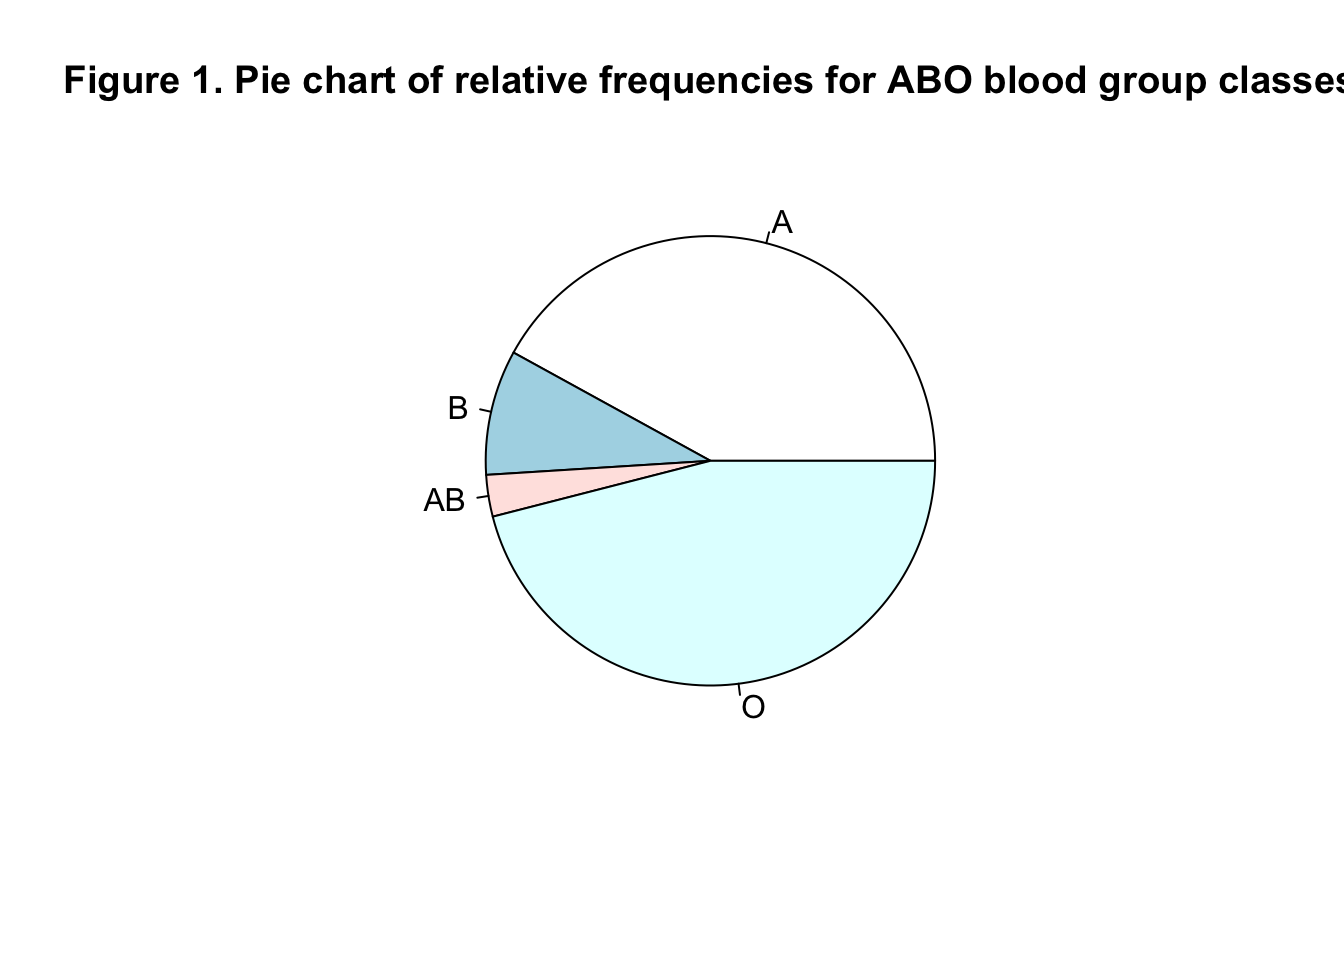
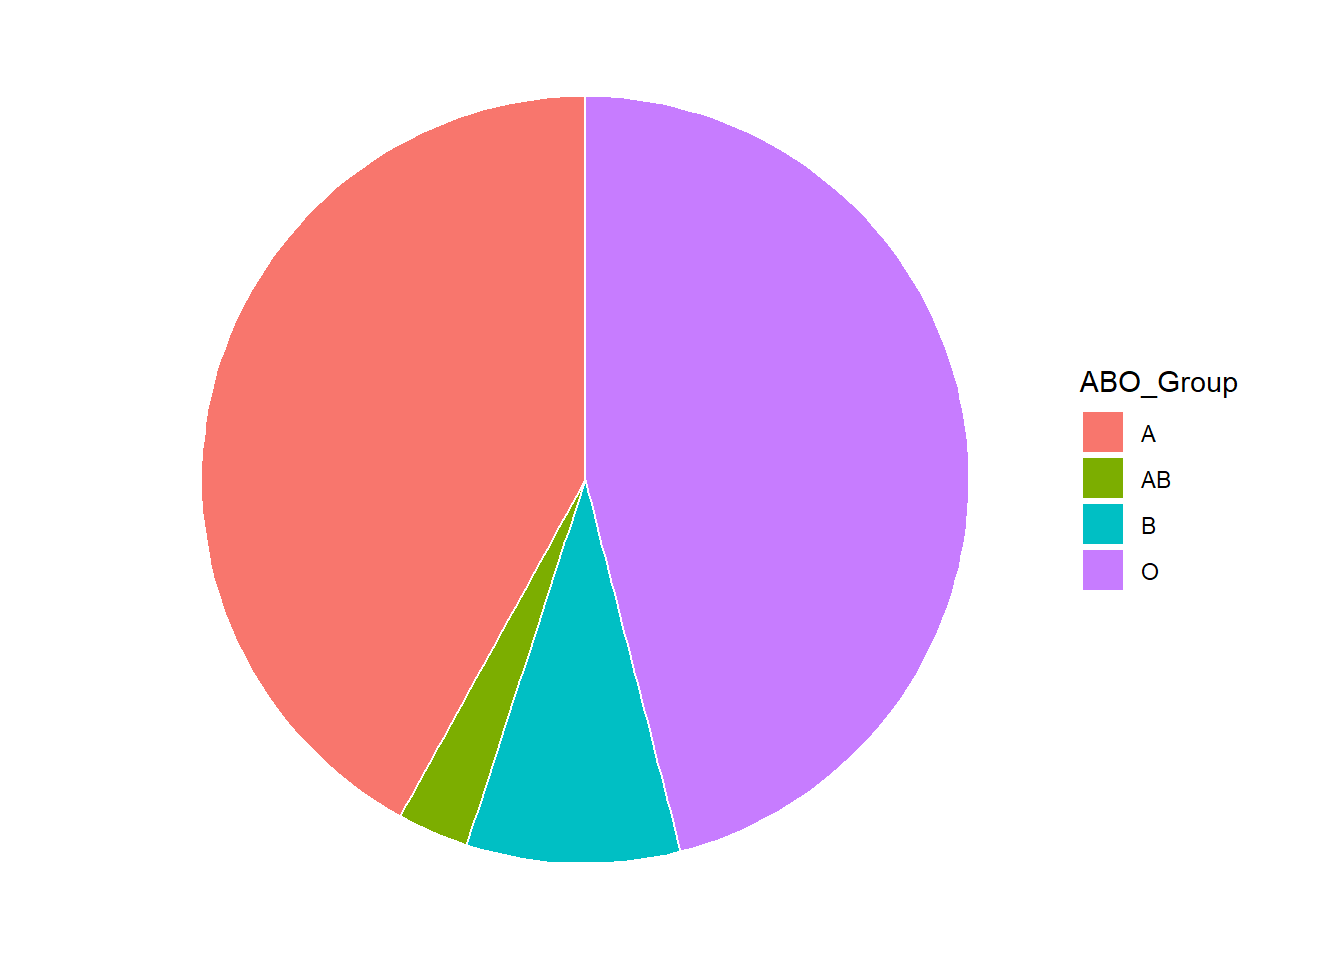
create plots

diff --git a/raw_markdown/docs/graphing-distributions-qualitative-variables.html b/raw_markdown/docs/graphing-distributions-qualitative-variables.html
@@ -102,16 +102,16 @@ For example, the relative frequency for group B is 45/500 = 0.09.</p>
 <h2>
 <span class="header-section-number">7.3</span> Pie Charts<a class="anchor" aria-label="anchor" href="#pie-charts"><i class="fas fa-link"></i></a>
 </h2>
-<p>The pie chart in Figure 1 depicts the ABO group data. In a pie chart,
+<p>The pie chart in Figure <a href="graphing-distributions-qualitative-variables.html#fig:pie-chart">7.1</a> depicts the ABO group data. In a pie chart,
 each category is represented by a slice of the pie. The area of the slice is
 proportional to the percentage of items in the category – that is, the
 relative frequency multiplied by 100.</p>
-<p><span class="math display">\[
-\begin{array}{c}
-\mbox{Joseph: Please add code to generate pie chart} \\[.1in]
-\mbox{Figure 1. Pie chart of relative frequencies for ABO blood groups}
-\end{array}
-\]</span></p>
+<div class="figure">
+<span style="display:block;" id="fig:pie-chart"></span>
+<img src="forensic-statistics-book_files/figure-html/pie-chart-1.png" alt="Relative Frequencies for ABO Blood Groups" width="672"><p class="caption">
+Figure 7.1: Relative Frequencies for ABO Blood Groups
+</p>
+</div>
 <p>Pie charts are effective for displaying the relative frequencies of a small
 number of categories. They are not recommended, however, when you have a large
 number of categories. Pie charts can also be confusing when they are used to
@@ -124,22 +124,22 @@ a pie chart is several of them.”</p>
 <span class="header-section-number">7.4</span> Bar Charts<a class="anchor" aria-label="anchor" href="#bar-charts"><i class="fas fa-link"></i></a>
 </h2>
 <p>Bar charts can also be used to represent frequencies of different categories.
-A bar chart of the ABO frequencies is shown in Figure 2. Frequencies are shown
+A bar chart of the ABO frequencies is shown in Figure <a href="graphing-distributions-qualitative-variables.html#fig:bar-chart">7.2</a>. Frequencies are shown
 on the Y-axis and the blood group is shown on the X-axis.</p>
-<p><span class="math display">\[
-\begin{array}{c}
-\mbox{Joseph: Please add code to generate bar chart} \\[.1in]
-\mbox{Figure 2. Bar chart of frequencies for ABO blood groups}
-\end{array}
-\]</span></p>
+<div class="figure">
+<span style="display:block;" id="fig:bar-chart"></span>
+<img src="forensic-statistics-book_files/figure-html/bar-chart-1.png" alt="Frequencies for ABO Blood Groups" width="672"><p class="caption">
+Figure 7.2: Frequencies for ABO Blood Groups
+</p>
+</div>
 <p>The Y-axis also can show the percentage of observations
-instead of the number of observations, as in Figure 3.</p>
-<p><span class="math display">\[
-\begin{array}{c}
-\mbox{Joseph: Please add code to generate bar charts} \\[.1in]
-\mbox{Figure 3. Bar chart of percentages for ABO blood groups}
-\end{array}
-\]</span></p>
+instead of the number of observations, as in Figure <a href="graphing-distributions-qualitative-variables.html#fig:bar-chart-percent">7.3</a>.</p>
+<div class="figure">
+<span style="display:block;" id="fig:bar-chart-percent"></span>
+<img src="forensic-statistics-book_files/figure-html/bar-chart-percent-1.png" alt="Percentages for ABO Blood Groups" width="672"><p class="caption">
+Figure 7.3: Percentages for ABO Blood Groups
+</p>
+</div>
 </div>
 <div id="comparing-distributions" class="section level2">
 <h2>
@@ -164,15 +164,14 @@ Albania and Australia.</p>
 \]</span>
 From Table 2 we see that ABO groups B and AB are more common in Albania,
 group O is more common in Australia, and group A is similar for both.
-This can be seen in the bar chart in Figure 4.</p>
-<p><span class="math display">\[
-\begin{array}{c}
-\mbox{Joseph: Please add code to generate side-by-side bar chart 
-(oriented horizontally)} \\[.1in]
-\mbox{Figure 4. Bar chart of percentages for ABO blood groups}
-\end{array}
-\]</span></p>
-<p>The bars in Figure 4 are oriented horizontally rather than vertically. The
+This can be seen in the bar chart in Figure <a href="graphing-distributions-qualitative-variables.html#fig:horiz-bar">7.4</a>.</p>
+<div class="figure">
+<span style="display:block;" id="fig:horiz-bar"></span>
+<img src="forensic-statistics-book_files/figure-html/horiz-bar-1.png" alt="Percentages for ABO Blood Groups by Country" width="672"><p class="caption">
+Figure 7.4: Percentages for ABO Blood Groups by Country
+</p>
+</div>
+<p>The bars in Figure <a href="graphing-distributions-qualitative-variables.html#fig:horiz-bar">7.4</a> are oriented horizontally rather than vertically. The
 horizontal format is useful when you have many categories because there is more
 room for the category labels.</p>
 <hr>
@@ -184,6 +183,46 @@ room for the category labels.</p>
 <ol style="list-style-type: decimal">
 <li><span class="math inline">\(\text{Put exercises here}\)</span></li>
 </ol>
+</div>
+<div id="code-appendix" class="section level2">
+<h2>
+<span class="header-section-number">7.7</span> Code Appendix<a class="anchor" aria-label="anchor" href="#code-appendix"><i class="fas fa-link"></i></a>
+</h2>
+<div class="sourceCode" id="cb1"><pre class="downlit sourceCode r">
+<code class="sourceCode R"><span class="kw"><a href="https://rdrr.io/r/base/library.html">library</a></span><span class="op">(</span><span class="va"><a href="https://dplyr.tidyverse.org">dplyr</a></span><span class="op">)</span>
+<span class="kw"><a href="https://rdrr.io/r/base/library.html">library</a></span><span class="op">(</span><span class="va"><a href="https://ggplot2.tidyverse.org">ggplot2</a></span><span class="op">)</span>
+<span class="kw"><a href="https://rdrr.io/r/base/library.html">library</a></span><span class="op">(</span><span class="va"><a href="https://tidyr.tidyverse.org">tidyr</a></span><span class="op">)</span>
+
+<span class="va">data</span> <span class="op">&lt;-</span> <span class="fu"><a href="https://rdrr.io/r/base/data.frame.html">data.frame</a></span><span class="op">(</span>ABO_Group <span class="op">=</span> <span class="fu"><a href="https://rdrr.io/r/base/c.html">c</a></span><span class="op">(</span><span class="st">"A"</span>, <span class="st">"B"</span>, <span class="st">"AB"</span>, <span class="st">"O"</span><span class="op">)</span>, value <span class="op">=</span> <span class="fu"><a href="https://rdrr.io/r/base/c.html">c</a></span><span class="op">(</span><span class="fl">210</span>, <span class="fl">45</span>, <span class="fl">15</span>, <span class="fl">230</span><span class="op">)</span><span class="op">)</span> <span class="op">%&gt;%</span>
+  <span class="fu"><a href="https://dplyr.tidyverse.org/reference/mutate.html">mutate</a></span><span class="op">(</span>prop <span class="op">=</span> <span class="va">value</span> <span class="op">/</span> <span class="fu"><a href="https://rdrr.io/r/base/sum.html">sum</a></span><span class="op">(</span><span class="va">value</span><span class="op">)</span> <span class="op">*</span> <span class="fl">100</span><span class="op">)</span>
+
+<span class="co"># Figure 7.1 -----</span>
+<span class="fu"><a href="https://ggplot2.tidyverse.org/reference/ggplot.html">ggplot</a></span><span class="op">(</span>data <span class="op">=</span> <span class="va">data</span>, <span class="fu"><a href="https://ggplot2.tidyverse.org/reference/aes.html">aes</a></span><span class="op">(</span>x <span class="op">=</span> <span class="st">""</span>, y <span class="op">=</span> <span class="va">prop</span>, fill <span class="op">=</span> <span class="va">ABO_Group</span><span class="op">)</span><span class="op">)</span> <span class="op">+</span> 
+  <span class="fu"><a href="https://ggplot2.tidyverse.org/reference/geom_bar.html">geom_bar</a></span><span class="op">(</span>stat <span class="op">=</span> <span class="st">"identity"</span>, width <span class="op">=</span> <span class="fl">1</span>, color <span class="op">=</span> <span class="st">"white"</span><span class="op">)</span> <span class="op">+</span> 
+  <span class="fu"><a href="https://ggplot2.tidyverse.org/reference/coord_polar.html">coord_polar</a></span><span class="op">(</span><span class="st">"y"</span>, start <span class="op">=</span> <span class="fl">0</span><span class="op">)</span> <span class="op">+</span> 
+  <span class="fu"><a href="https://ggplot2.tidyverse.org/reference/ggtheme.html">theme_void</a></span><span class="op">(</span><span class="op">)</span>
+
+<span class="co"># Figure 7.2 -----</span>
+<span class="fu"><a href="https://ggplot2.tidyverse.org/reference/ggplot.html">ggplot</a></span><span class="op">(</span><span class="va">data</span>, <span class="fu"><a href="https://ggplot2.tidyverse.org/reference/aes.html">aes</a></span><span class="op">(</span><span class="va">ABO_Group</span>, <span class="va">value</span><span class="op">)</span><span class="op">)</span> <span class="op">+</span> 
+  <span class="fu"><a href="https://ggplot2.tidyverse.org/reference/geom_bar.html">geom_bar</a></span><span class="op">(</span>stat <span class="op">=</span> <span class="st">"identity"</span>, fill <span class="op">=</span> <span class="st">"steelblue"</span><span class="op">)</span> <span class="op">+</span> 
+  <span class="fu"><a href="https://ggplot2.tidyverse.org/reference/labs.html">labs</a></span><span class="op">(</span>x <span class="op">=</span> <span class="st">"ABO Group"</span>, y <span class="op">=</span> <span class="st">"Frequency"</span><span class="op">)</span>
+
+<span class="co"># Figure 7.3 -----</span>
+<span class="fu"><a href="https://ggplot2.tidyverse.org/reference/ggplot.html">ggplot</a></span><span class="op">(</span><span class="va">data</span>, <span class="fu"><a href="https://ggplot2.tidyverse.org/reference/aes.html">aes</a></span><span class="op">(</span><span class="va">ABO_Group</span>, <span class="va">prop</span><span class="op">)</span><span class="op">)</span> <span class="op">+</span> 
+  <span class="fu"><a href="https://ggplot2.tidyverse.org/reference/geom_bar.html">geom_bar</a></span><span class="op">(</span>stat <span class="op">=</span> <span class="st">"identity"</span>, fill <span class="op">=</span> <span class="st">"#B4464B"</span><span class="op">)</span> <span class="op">+</span> 
+  <span class="fu"><a href="https://ggplot2.tidyverse.org/reference/labs.html">labs</a></span><span class="op">(</span>x <span class="op">=</span> <span class="st">"ABO Group"</span>, y <span class="op">=</span> <span class="st">"Percentage"</span><span class="op">)</span>
+
+<span class="co"># Figure 7.4 -----</span>
+<span class="va">data</span> <span class="op">&lt;-</span> <span class="fu"><a href="https://rdrr.io/r/base/data.frame.html">data.frame</a></span><span class="op">(</span>ABO_Group <span class="op">=</span> <span class="fu"><a href="https://rdrr.io/r/base/c.html">c</a></span><span class="op">(</span><span class="st">"A"</span>, <span class="st">"B"</span>, <span class="st">"AB"</span>, <span class="st">"O"</span><span class="op">)</span>, 
+                   Albania <span class="op">=</span> <span class="fu"><a href="https://rdrr.io/r/base/c.html">c</a></span><span class="op">(</span><span class="fl">36.7</span>, <span class="fl">17.1</span>, <span class="fl">6.1</span>, <span class="fl">40.1</span><span class="op">)</span>, 
+                   Australia <span class="op">=</span> <span class="fu"><a href="https://rdrr.io/r/base/c.html">c</a></span><span class="op">(</span><span class="fl">38</span>, <span class="fl">10</span>, <span class="fl">3</span>, <span class="fl">49</span><span class="op">)</span><span class="op">)</span> <span class="op">%&gt;%</span>
+  <span class="fu"><a href="https://tidyr.tidyverse.org/reference/pivot_longer.html">pivot_longer</a></span><span class="op">(</span><span class="op">!</span><span class="va">ABO_Group</span>, names_to <span class="op">=</span> <span class="st">"Country"</span>, values_to <span class="op">=</span> <span class="st">"Percentage"</span><span class="op">)</span>
+
+<span class="fu"><a href="https://ggplot2.tidyverse.org/reference/ggplot.html">ggplot</a></span><span class="op">(</span><span class="va">data</span>, <span class="fu"><a href="https://ggplot2.tidyverse.org/reference/aes.html">aes</a></span><span class="op">(</span><span class="va">ABO_Group</span>, <span class="va">Percentage</span>, fill <span class="op">=</span> <span class="va">Country</span><span class="op">)</span><span class="op">)</span> <span class="op">+</span> 
+  <span class="fu"><a href="https://ggplot2.tidyverse.org/reference/geom_bar.html">geom_bar</a></span><span class="op">(</span>stat <span class="op">=</span> <span class="st">"identity"</span>, position <span class="op">=</span> <span class="st">"dodge"</span>, width <span class="op">=</span> <span class="fl">0.8</span><span class="op">)</span> <span class="op">+</span> 
+  <span class="fu"><a href="https://ggplot2.tidyverse.org/reference/labs.html">labs</a></span><span class="op">(</span>x <span class="op">=</span> <span class="st">"ABO Group"</span><span class="op">)</span>
+  <span class="fu"><a href="https://ggplot2.tidyverse.org/reference/coord_flip.html">coord_flip</a></span><span class="op">(</span><span class="op">)</span></code></pre></div>
+
 </div>
 </div>
   <div class="chapter-nav">
@@ -199,6 +238,7 @@ room for the category labels.</p>
 <li><a class="nav-link" href="#bar-charts"><span class="header-section-number">7.4</span> Bar Charts</a></li>
 <li><a class="nav-link" href="#comparing-distributions"><span class="header-section-number">7.5</span> Comparing Distributions</a></li>
 <li><a class="nav-link" href="#exercises-2"><span class="header-section-number">7.6</span> Exercises</a></li>
+<li><a class="nav-link" href="#code-appendix"><span class="header-section-number">7.7</span> Code Appendix</a></li>
 </ul>
 
       <div class="book-extra">
@@ -215,11 +255,7 @@ room for the category labels.</p>
 <footer class="bg-primary text-light mt-5"><div class="container"><div class="row">
 
   <div class="col-12 col-md-6 mt-3">
-<<<<<<< Updated upstream
-    <p>"<strong>Forensic Science and Statistics: Version 1.0.0</strong>" was written by Jeff Holt and Joseph Swetonic. It was last built on 2022-01-26.</p>
-=======
-    <p>"<strong>Forensic Science and Statistics: Version 1.0.0</strong>" was written by Jeff Holt and Joseph Swetonic. It was last built on 2022-01-25.</p>
->>>>>>> Stashed changes
+    <p>"<strong>Forensic Science and Statistics: Version 1.0.0</strong>" was written by Jeff Holt and Joseph Swetonic. It was last built on 2022-01-27.</p>
   </div>
 
   <div class="col-12 col-md-6 mt-3">

diff --git a/raw_markdown/docs/counterintuitive-applications.html b/raw_markdown/docs/counterintuitive-applications.html
@@ -124,11 +124,7 @@ He says to you, “Do you want to pick door #2?” Is it to your advantage to sw
 <footer class="bg-primary text-light mt-5"><div class="container"><div class="row">
 
   <div class="col-12 col-md-6 mt-3">
-<<<<<<< Updated upstream
-    <p>"<strong>Forensic Science and Statistics: Version 1.0.0</strong>" was written by Jeff Holt and Joseph Swetonic. It was last built on 2022-01-26.</p>
-=======
-    <p>"<strong>Forensic Science and Statistics: Version 1.0.0</strong>" was written by Jeff Holt and Joseph Swetonic. It was last built on 2022-01-25.</p>
->>>>>>> Stashed changes
+    <p>"<strong>Forensic Science and Statistics: Version 1.0.0</strong>" was written by Jeff Holt and Joseph Swetonic. It was last built on 2022-01-27.</p>
   </div>
 
   <div class="col-12 col-md-6 mt-3">

diff --git a/raw_markdown/docs/joint-probability.html b/raw_markdown/docs/joint-probability.html
@@ -272,11 +272,7 @@ Because these two groups are disjoint, we can add the probabilities to arrive at
 <footer class="bg-primary text-light mt-5"><div class="container"><div class="row">
 
   <div class="col-12 col-md-6 mt-3">
-<<<<<<< Updated upstream
-    <p>"<strong>Forensic Science and Statistics: Version 1.0.0</strong>" was written by Jeff Holt and Joseph Swetonic. It was last built on 2022-01-26.</p>
-=======
-    <p>"<strong>Forensic Science and Statistics: Version 1.0.0</strong>" was written by Jeff Holt and Joseph Swetonic. It was last built on 2022-01-25.</p>
->>>>>>> Stashed changes
+    <p>"<strong>Forensic Science and Statistics: Version 1.0.0</strong>" was written by Jeff Holt and Joseph Swetonic. It was last built on 2022-01-27.</p>
   </div>
 
   <div class="col-12 col-md-6 mt-3">

diff --git a/raw_markdown/docs/probability-rules.html b/raw_markdown/docs/probability-rules.html
@@ -119,11 +119,7 @@ which implies that knowing if B has occurred has no effect on the probability of
 <footer class="bg-primary text-light mt-5"><div class="container"><div class="row">
 
   <div class="col-12 col-md-6 mt-3">
-<<<<<<< Updated upstream
-    <p>"<strong>Forensic Science and Statistics: Version 1.0.0</strong>" was written by Jeff Holt and Joseph Swetonic. It was last built on 2022-01-26.</p>
-=======
-    <p>"<strong>Forensic Science and Statistics: Version 1.0.0</strong>" was written by Jeff Holt and Joseph Swetonic. It was last built on 2022-01-25.</p>
->>>>>>> Stashed changes
+    <p>"<strong>Forensic Science and Statistics: Version 1.0.0</strong>" was written by Jeff Holt and Joseph Swetonic. It was last built on 2022-01-27.</p>
   </div>
 
   <div class="col-12 col-md-6 mt-3">

diff --git a/raw_markdown/docs/graphing-distributions-histograms.html b/raw_markdown/docs/graphing-distributions-histograms.html
@@ -134,11 +134,7 @@ Interval’s Lower Limit Interval’s Upper Limit Class Frequency
 <footer class="bg-primary text-light mt-5"><div class="container"><div class="row">
 
   <div class="col-12 col-md-6 mt-3">
-<<<<<<< Updated upstream
-    <p>"<strong>Forensic Science and Statistics: Version 1.0.0</strong>" was written by Jeff Holt and Joseph Swetonic. It was last built on 2022-01-26.</p>
-=======
-    <p>"<strong>Forensic Science and Statistics: Version 1.0.0</strong>" was written by Jeff Holt and Joseph Swetonic. It was last built on 2022-01-25.</p>
->>>>>>> Stashed changes
+    <p>"<strong>Forensic Science and Statistics: Version 1.0.0</strong>" was written by Jeff Holt and Joseph Swetonic. It was last built on 2022-01-27.</p>
   </div>
 
   <div class="col-12 col-md-6 mt-3">

diff --git a/raw_markdown/docs/404.html b/raw_markdown/docs/404.html
@@ -74,11 +74,7 @@ the table of contents to find the page you are looking for.</p>
 <footer class="bg-primary text-light mt-5"><div class="container"><div class="row">
 
   <div class="col-12 col-md-6 mt-3">
-<<<<<<< Updated upstream
-    <p>"<strong>Forensic Science and Statistics: Version 1.0.0</strong>" was written by Jeff Holt and Joseph Swetonic. It was last built on 2022-01-26.</p>
-=======
-    <p>"<strong>Forensic Science and Statistics: Version 1.0.0</strong>" was written by Jeff Holt and Joseph Swetonic. It was last built on 2022-01-25.</p>
->>>>>>> Stashed changes
+    <p>"<strong>Forensic Science and Statistics: Version 1.0.0</strong>" was written by Jeff Holt and Joseph Swetonic. It was last built on 2022-01-27.</p>
   </div>
 
   <div class="col-12 col-md-6 mt-3">

diff --git a/raw_markdown/docs/index.html b/raw_markdown/docs/index.html
@@ -148,11 +148,7 @@ Version 1 than in Version 2.</p></li>
 <footer class="bg-primary text-light mt-5"><div class="container"><div class="row">
 
   <div class="col-12 col-md-6 mt-3">
-<<<<<<< Updated upstream
-    <p>"<strong>Forensic Science and Statistics: Version 1.0.0</strong>" was written by Jeff Holt and Joseph Swetonic. It was last built on 2022-01-26.</p>
-=======
-    <p>"<strong>Forensic Science and Statistics: Version 1.0.0</strong>" was written by Jeff Holt and Joseph Swetonic. It was last built on 2022-01-25.</p>
->>>>>>> Stashed changes
+    <p>"<strong>Forensic Science and Statistics: Version 1.0.0</strong>" was written by Jeff Holt and Joseph Swetonic. It was last built on 2022-01-27.</p>
   </div>
 
   <div class="col-12 col-md-6 mt-3">

diff --git a/raw_markdown/docs/introduction-to-probability.html b/raw_markdown/docs/introduction-to-probability.html
@@ -182,11 +182,7 @@ as for a blond-haired culprit.
 <footer class="bg-primary text-light mt-5"><div class="container"><div class="row">
 
   <div class="col-12 col-md-6 mt-3">
-<<<<<<< Updated upstream
-    <p>"<strong>Forensic Science and Statistics: Version 1.0.0</strong>" was written by Jeff Holt and Joseph Swetonic. It was last built on 2022-01-26.</p>
-=======
-    <p>"<strong>Forensic Science and Statistics: Version 1.0.0</strong>" was written by Jeff Holt and Joseph Swetonic. It was last built on 2022-01-25.</p>
->>>>>>> Stashed changes
+    <p>"<strong>Forensic Science and Statistics: Version 1.0.0</strong>" was written by Jeff Holt and Joseph Swetonic. It was last built on 2022-01-27.</p>
   </div>
 
   <div class="col-12 col-md-6 mt-3">

diff --git a/raw_markdown/docs/conditional-probability.html b/raw_markdown/docs/conditional-probability.html
@@ -125,11 +125,7 @@ hide:hover {
 <footer class="bg-primary text-light mt-5"><div class="container"><div class="row">
 
   <div class="col-12 col-md-6 mt-3">
-<<<<<<< Updated upstream
-    <p>"<strong>Forensic Science and Statistics: Version 1.0.0</strong>" was written by Jeff Holt and Joseph Swetonic. It was last built on 2022-01-26.</p>
-=======
-    <p>"<strong>Forensic Science and Statistics: Version 1.0.0</strong>" was written by Jeff Holt and Joseph Swetonic. It was last built on 2022-01-25.</p>
->>>>>>> Stashed changes
+    <p>"<strong>Forensic Science and Statistics: Version 1.0.0</strong>" was written by Jeff Holt and Joseph Swetonic. It was last built on 2022-01-27.</p>
   </div>
 
   <div class="col-12 col-md-6 mt-3">

diff --git a/raw_markdown/docs/references.html b/raw_markdown/docs/references.html
@@ -81,11 +81,7 @@
 <footer class="bg-primary text-light mt-5"><div class="container"><div class="row">
 
   <div class="col-12 col-md-6 mt-3">
-<<<<<<< Updated upstream
-    <p>"<strong>Forensic Science and Statistics: Version 1.0.0</strong>" was written by Jeff Holt and Joseph Swetonic. It was last built on 2022-01-26.</p>
-=======
-    <p>"<strong>Forensic Science and Statistics: Version 1.0.0</strong>" was written by Jeff Holt and Joseph Swetonic. It was last built on 2022-01-25.</p>
->>>>>>> Stashed changes
+    <p>"<strong>Forensic Science and Statistics: Version 1.0.0</strong>" was written by Jeff Holt and Joseph Swetonic. It was last built on 2022-01-27.</p>
   </div>
 
   <div class="col-12 col-md-6 mt-3">
